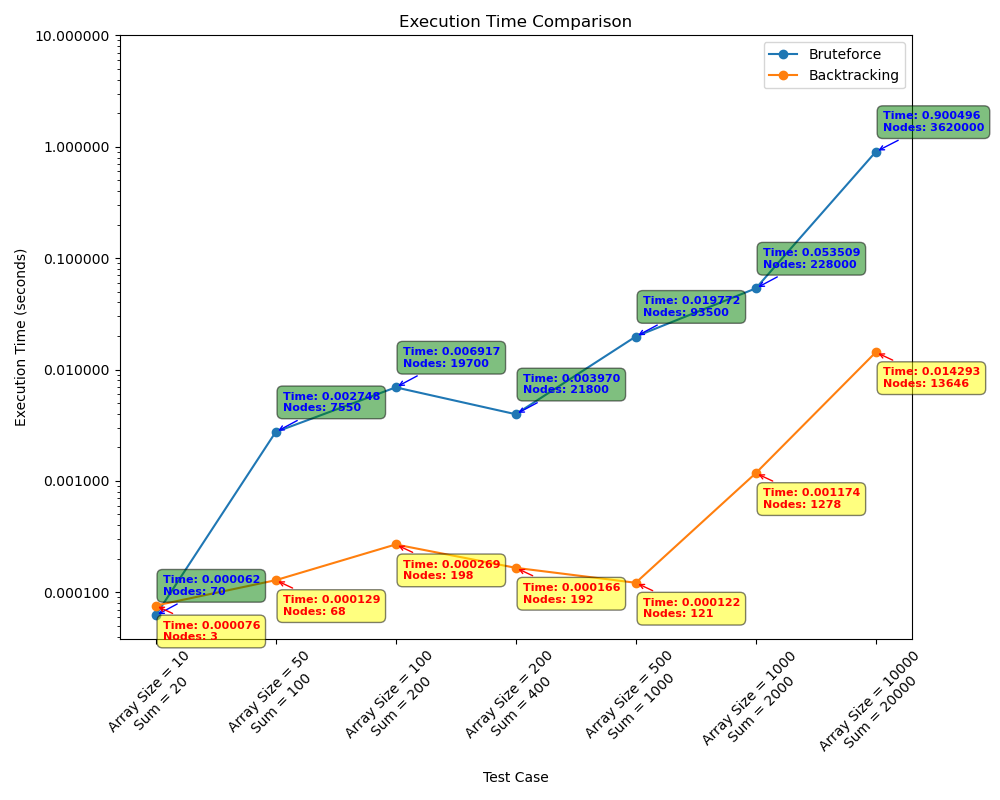
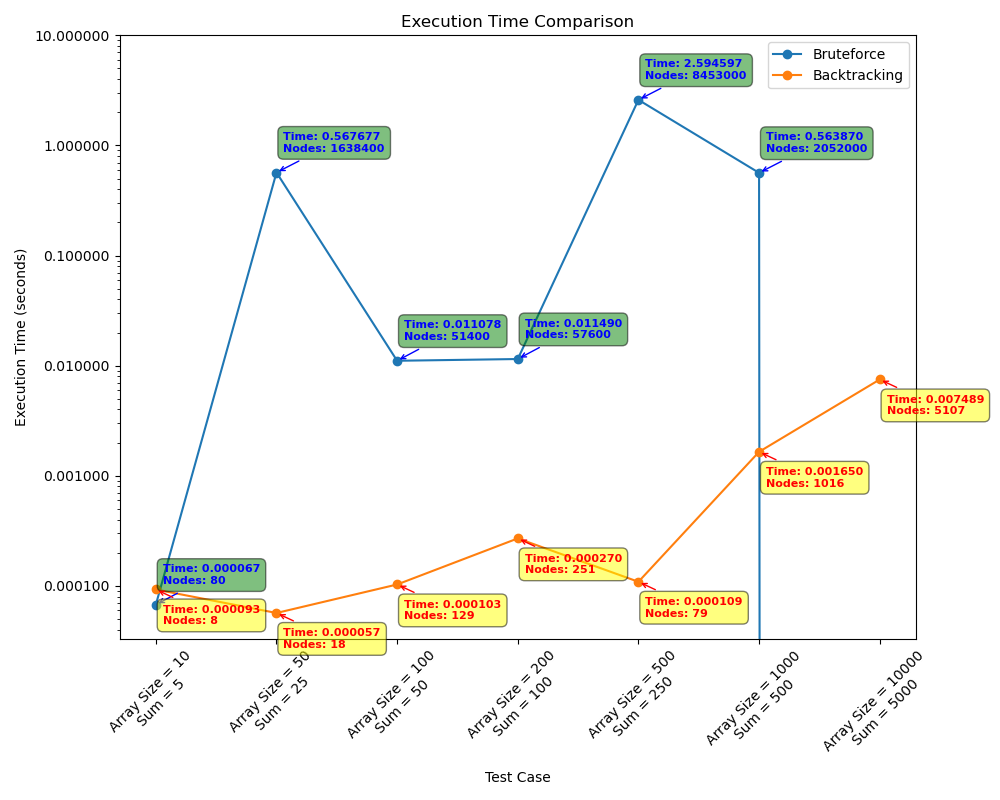
update paa1

diff --git a/src/posts/paa-1.md b/src/posts/paa-1.md
@@ -154,7 +154,7 @@ Todos os testes foram realizados em um processador 10th Generation Intel Core i7
 
 random.sample é uma função que retorna uma lista de elementos únicos de um determinado intervalo.
 
-range representa o maior e menor valores contidos no intervalo.
+range representa o intervalo.
 
 o ultimo numero(10 para o primeiro teste) representa o valor objetivo para o problema.
 
@@ -178,6 +178,8 @@ test_data = [
 
 ### Teste 1
 
+Nesse primeiro teste, executamos os algoritmos com entradas variadas para podermos identificar quais testes poderiam ser relevantes para identificarmos as diferenças, vantagens e desvantagens dos algoritmos de brute force e backtracking.
+
 ![test1](paa-1-test1.png)
 
 ### Teste 2
@@ -185,6 +187,8 @@ test_data = [
 ![test2](paa-1-test2.png)
 
 ### Teste 3
+
+No teste 3 os algoritmos foram executados com entradas de tamanho crescente, sempre mantendo o valor da soma o dobro do número de elementos do array. O objetivo desse teste é observar a variação de tempo conforme o tamanho do array vai aumentando.
 
 ![test3](paa-1-test3.png)
 
@@ -195,3 +199,7 @@ test_data = [
 ### Teste 5
 
 ![test5](paa-1-test5.png)
+
+### Teste 6
+
+![test6](paa-1-test6.png)
